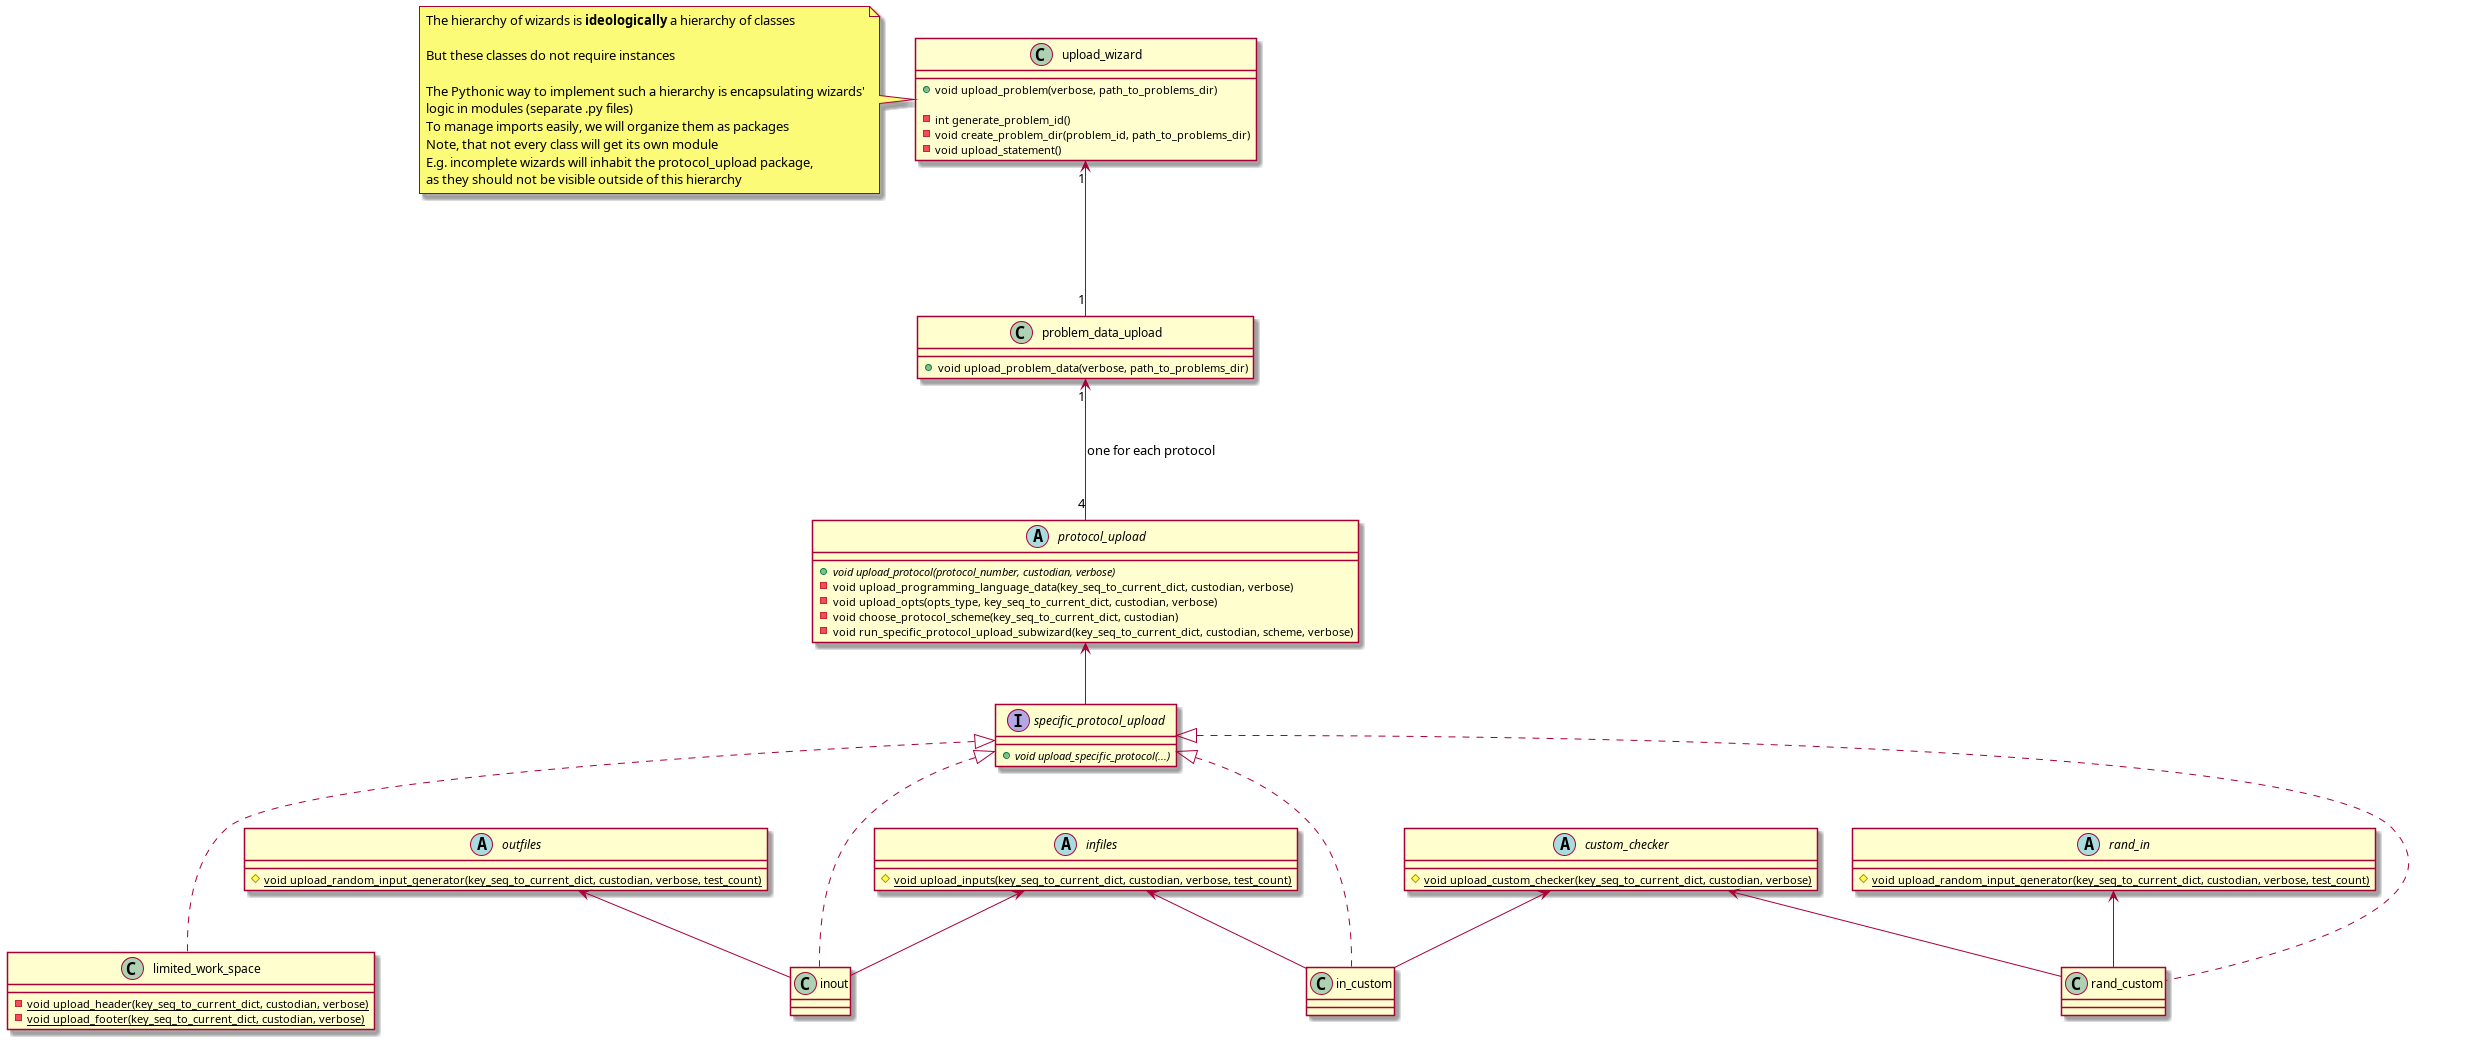
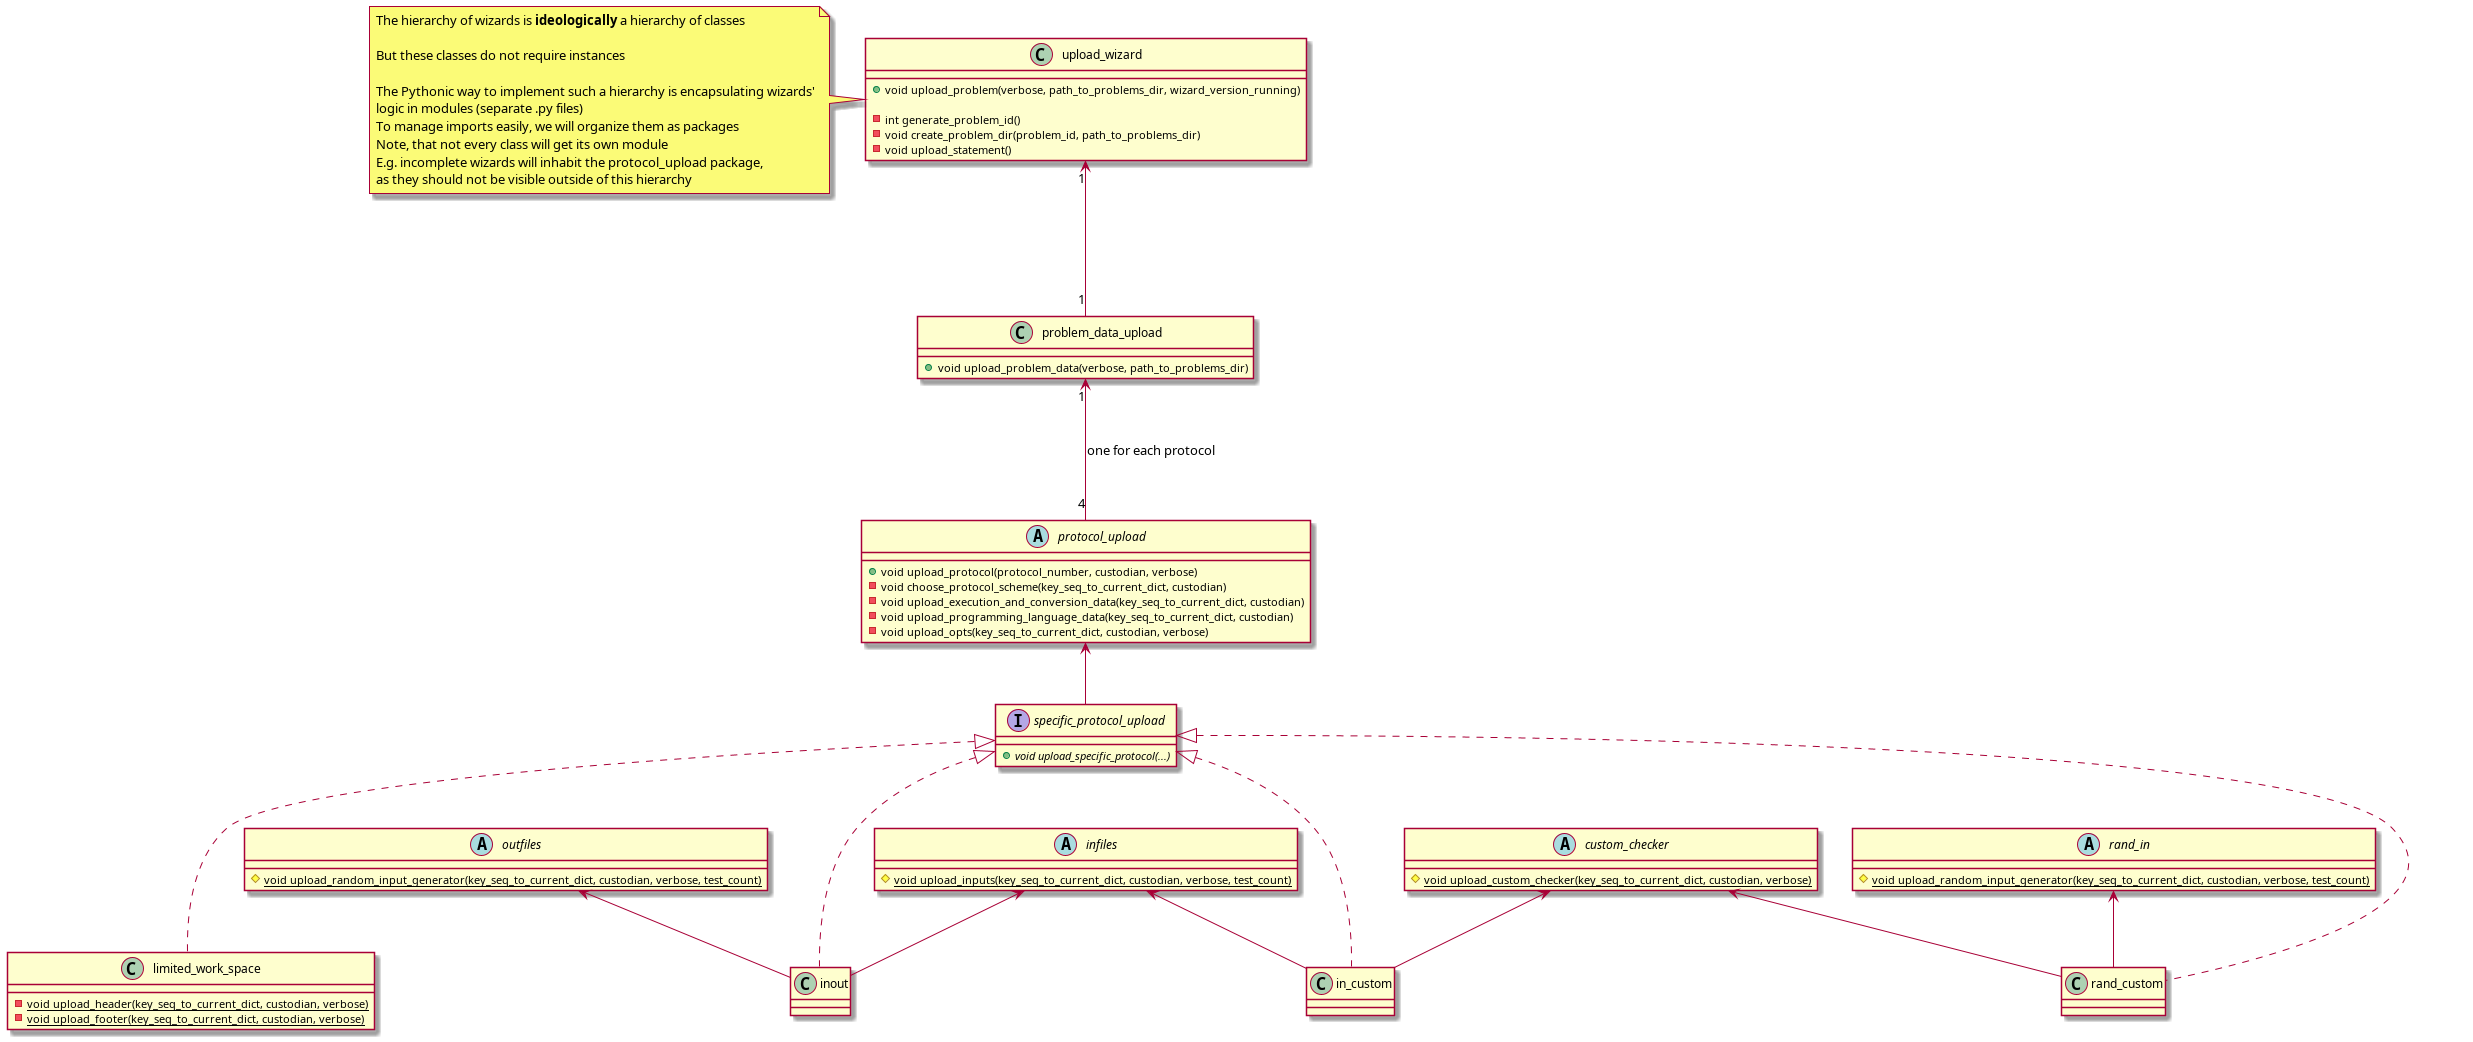
Refactored wizard: now uploads execution_and_conversion_data_set

Changed region(s): [[0.1245, 0.0, 0.5293, 0.215], [0.3114, 0.4914, 0.5605, 0.6449]]

diff --git a/Interface/CmdLineIF/UploadProblemAsTeacher/upload_wizard/problem_data_upload/protocol_upload_wizard/__init__.py b/Interface/CmdLineIF/UploadProblemAsTeacher/upload_wizard/problem_data_upload/protocol_upload_wizard/__init__.py
@@ -11,28 +11,11 @@ def upload_protocol(path_to_dir, protocol_number, custodian, verbose):
     path_to_protocol_dir = create_dir(f'{path_to_dir}/prot{protocol_number}')
 
     # INTERACT
-    upload_programming_language_data(key_seq_to_current_dict, custodian)
     scheme = choose_protocol_scheme(key_seq_to_current_dict, custodian, verbose)
-    for opts_type in ['conversion options', 'command line options']:
-        upload_opts(opts_type, key_seq_to_current_dict, custodian)
+    upload_execution_and_conversion_data(key_seq_to_current_dict, custodian)
 
     # HAND OVER CONTROL
     eval(f'{scheme}.upload_specific_protocol')(path_to_protocol_dir, key_seq_to_current_dict, custodian)
-
-
-def upload_programming_language_data(key_seq_to_current_dict, custodian):
-    language_code = input("""Choose one of 2 supported languages:
-    Type 1 for C++
-    Type 2 for Python3
-    """)
-
-    if language_code == '1':
-        std = input("Specify C++ standard (available: 11, 14, 17, 20): ")
-        programming_language_data = f'cxx_data.cxx{std}_data'
-    else:
-        programming_language_data = 'python_data.python3_data'
-
-    custodian.nested_fill_in(key_seq_to_current_dict + ('programming_language_data', ), programming_language_data)
 
 
 def choose_protocol_scheme(key_seq_to_current_dict, custodian, verbose):
@@ -72,6 +55,33 @@ Input 1 for InputOutput,
     return scheme
 
 
-def upload_opts(opts_type, key_seq_to_current_dict, custodian):
-    opts = input(f"Input {opts_type} (leave blank to skip): ").split()
-    custodian.nested_fill_in(key_seq_to_current_dict + (opts_type, ), opts)
+def upload_execution_and_conversion_data(key_seq_to_current_dict, custodian):
+    supported_languages_count = int(input("Each protocol can support multiple programming languages"
+                                          "Specify the number of languages supported by this protocol: "))
+
+    for language_idx in range(supported_languages_count):
+        key_seq_to_current_execution_and_conversion_data \
+            = key_seq_to_current_dict + ("execution_and_conversion_data_set", str(language_idx))
+        upload_programming_language_data(key_seq_to_current_execution_and_conversion_data, custodian)
+        upload_opts(key_seq_to_current_execution_and_conversion_data, custodian)
+
+
+def upload_programming_language_data(key_seq_to_current_dict, custodian):
+    language_code = input("""Choose one of 2 supported languages:
+    Type 1 for C++
+    Type 2 for Python3
+    """)
+
+    if language_code == '1':
+        std = input("Specify C++ standard (available: 11, 14, 17, 20): ")
+        programming_language_data = f'cxx_data.cxx{std}_data'
+    else:
+        programming_language_data = 'python_data.python3_data'
+
+    custodian.nested_fill_in(key_seq_to_current_dict + ('programming_language_data', ), programming_language_data)
+
+
+def upload_opts(key_seq_to_current_dict, custodian):
+    for opts_type in ['conversion options', 'command line options']:
+        opts = input(f"Input {opts_type} (leave blank to skip): ").split()
+        custodian.nested_fill_in(key_seq_to_current_dict + (opts_type, ), opts)

diff --git a/Interface/CmdLineIF/UploadProblemAsTeacher/upload_wizard/__init__.py b/Interface/CmdLineIF/UploadProblemAsTeacher/upload_wizard/__init__.py
@@ -5,15 +5,17 @@ from data_custodian import JsonDataCustodian
 import os.path
 
 
-def upload_problem(path_to_problems_dir, verbose):
+def upload_problem(path_to_problems_dir, verbose, wizard_version_running):
     # PRE
+    print(f"You are running a problem upload wizard v{wizard_version_running}")
+    custodian.fill_in("uploaded_by_wizard_version", wizard_version_running)
+
     problem_id = generate_problem_id()
-    print(f"\033[92mProblem recieved id: {problem_id}\033[0m")
+    print(f"\033[92mProblem received id: {problem_id}\033[0m")
     path_to_dir = create_problem_dir(problem_id, path_to_problems_dir)
     custodian = JsonDataCustodian(path_to_dir, 'problem_data')
 
     # INTERACT
-    print("You are running a problem upload wizard")
     upload_statement_and_name(custodian, path_to_dir)
 
     # HAND OVER CONTROL
@@ -22,7 +24,7 @@ def upload_problem(path_to_problems_dir, verbose):
 
 def generate_problem_id():
     problem_id = randint(1, 1000)
-    if problem_id % 10 == 0:  # multiples of 10 are reserved for preuploaded problems
+    if problem_id % 10 == 0:  # multiples of 10 are reserved
         problem_id += randint(1, 9)
     return problem_id
 
@@ -35,8 +37,8 @@ def create_problem_dir(problem_id, path_to_problems_dir):
 
 def upload_statement_and_name(custodian, path_to_dir):
     supported_extensions = {'.md', '.pdf', '.txt'}
-    name = input("First, give the problem a concise and clear name: ")
-    path_to_statement = input("""Now, upload a statement. 
+    name = input("Give your problem a concise and clear name: ")
+    path_to_statement = input("""Upload a statement. 
 Specify a path to .md, .pdf or .txt file (leave blank to skip): """)
     filename, extension = os.path.splitext(path_to_statement)
     if extension not in supported_extensions:

diff --git a/Interface/CmdLineIF/UploadProblemAsTeacher/main_driver.py b/Interface/CmdLineIF/UploadProblemAsTeacher/main_driver.py
@@ -2,4 +2,4 @@ import UploadProblemAsTeacher.upload_wizard as upload_wizard
 import sys
 
 if __name__ == '__main__':
-    upload_wizard.upload_problem(sys.argv[1], sys.argv[2] == '1')
+    upload_wizard.upload_problem(sys.argv[1], sys.argv[2] == '1', sys.argv[3])
